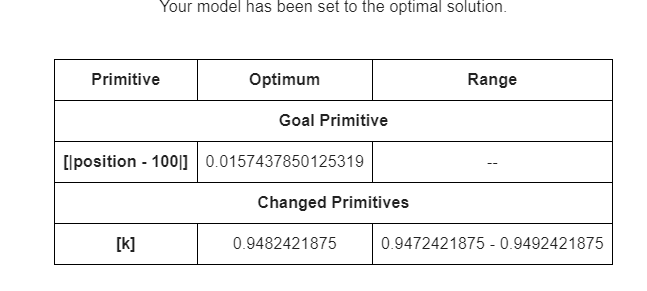
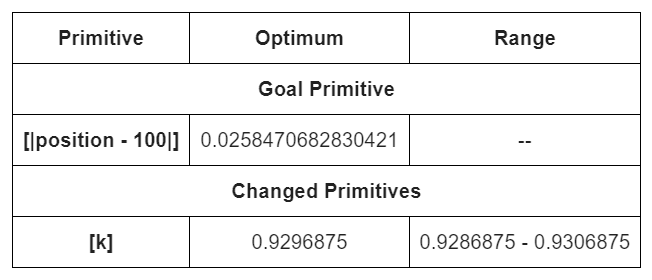
Latest build deployed.

diff --git a/lunr-pretext-search-index.js b/lunr-pretext-search-index.js
@@ -313,7 +313,7 @@ var ptx_lunr_docs = [
   "type": "Section",
   "number": "2.1",
   "title": "Modeling a Sprint with Insightmaker",
-  "body": " Modeling a Sprint with Insightmaker     Create a one-parameter ODE model of the velocity and position of a sprinter.    Compare the results of our model to real-world data from the 2008 Olympic 100m dash.    Estimate the value of the parameter in our ODE model that yields the best fit to the data using the built-in optimization abilities of Insightmaker.      In this section we will follow the example given in the first section and to show the full workflow of modeling a real-world scenario with Insightmaker. You are encouraged to build your own Insights as you work through this section. However, if you get stuck, links to three Insights are provided at the end of this section. Each one illustrates a different approach to parameter estimation.  We consider the problem of creating an ODE model for the velocity of a sprinter based on the following data from the 2008 Olympic 100m dash:  Usain Bolt's Position Data from the 2008 Olympic 100m Dash    Time (s)  0.165  1.85  2.87  3.78  4.65  5.50  6.32  7.14  7.96  8.79  9.69    Position (m)  0  10  20  30  40  50  60  70  80  90  100     Observe that the data we are presented with is position, while we are attemting to model velocity. This turns out to be a common situation as velocity is easier to model with a differential equation using Newton's Second Law ( has the derivative of velocity on the right-hand side), whereas position is easier to measure for data collection. However, since we can numerically integrate using Insightmaker we just need to create a model for velocity, then make the velocity stock equal to the inflow rate of the position stock via a link. This idea is illustrated with the following basic diagram, which we may refer to as an idiom since it describes a very common modeling situation (this is the velocity-to-position idiom).   The basic velocity to position diagram.    Creating this basic diagram for the modeling scenario, while it may seem intuitive, is the first step in the process of modeling using Insightmaker. We will now carry out the rest of the modeling process explicitly.   Creating the Model Diagram  Step 1: Identify Stocks and Flow Relationships   Identify all time-dependent variables (stocks) in the scenario and observe possible inflows, outflow, and flows between stocks. Decide if any stock influences the flow into or out of another and create links accordingly.    It is also good practice to establish units on all the stocks and flows of the model at this stage. In this case we will establish meters as the units of position, m\/s as the units of velocity (the stock and the flow into position) and m\/s as the units of both flows into velocity.   Establish Settings and Create Formulas  Step 2: Establish Flow Formulas and Parameters   Create formulas for the flow rates as well as any parameters (variables in Insightmaker) that the flow rates may depend on.    For the model of a sprint we will follow the Hill-Keller model as in . In this model we have one term for propulsive force, , which is assumed to be proportional to the mass of the sprinter. Thus, Here will be in units of m\/s and will be in units of kilograms. We will see that only one of them ( ) must be added as a variable in the model.   How realistic does it seem that the propulsive force generated by a sprinter is    proportional to their mass and    constant with respect to time?     There is also a resistive force, , that is assumed to be proportional to the velocity and the mass of the sprinter. This assumption is based on the idea that this resistive force accounts for air resistance and internal resistance of the runner's body. Thus, Here has units of s. We will add as a variable to our insight.  Using Newton's Second Law, we have Dividing everything by , we now have formulas for our flows for the velocity position stocks:  Flow Formulas for Sprint Model    Flow Formula into\/out of what    acceleration terms P into velocity    deceleration terms kv out of velocity    velocity v into position      Our Insight so far should look like the figure below with the flows describe above.   The basic Hill-Keller Insight.    Simulation settings will be as follows:  Simulation Start:   . This is the first time value in our data. It isn't zero because reaction time was nonzero.   Simulation End:   . This is the difference between and    Time Units:  Seconds   Simulation Time Step:   . This is a very small time step, but it is (sort of) necessary because of the initial point and wanting to be an exact time step. (We could use a larger time step by investigating factors of .)   Simulation Algorithm:  Euler's Method. Since the time step is very small, Euler's Method will be accurate enough.     At this point we have the Insight. Following , we will let and make have a slider to adjust it in small steps (of size ) between and (arrived at by running the model to see what works).   Using Data  Step 3: Adjust Parameters to Match the Data   After creating some quantifiable way of measuring how well the simulation matches the data, import the data as a converter and use an optimization procedure to make the simulation match the data as well as possible.    In order of increasing complexity we can   adjust sliders to make the data match at one or more points by inspection,    use the built-in optimization algorithm in Insightmaker to minimize the absolute value of the difference between one data point and the simulation, or    use the built-in optimization algorithm in Insightmaker to minimize the sum of squared errors between the collection of data points and the simulation.     We will now demonstrate each of these for our sprint model and see how much variation we get in our value of depending on the method.     Adjust Paramteters with Sliders: This is the most intuitive method. In this case, Bolt ran meters in seconds. Thus, we can run the simulation set to display time and position in the table display. Then, with sliders linked, we can adjust to make the position as close as we can to as possible when . The result is shown below:     The slider of for yields a position very close to meters.      Use the Optimizer (Version 1): As an alternative to using a slider, we can use the built in optimization algorithm to minimize when . First, we create a variable for (it will need a link from position). Then we proceed as follows:   Choose \"Optimization and Goal Seeking\" from the \"Tools\" (toolbox next to the \"Simulate\" button).    Choose as the \"primitive to adjust\".    Highlight \"minimize\" and \"final value\".    Choose as the primitive and accuracy of along with a guess range for .   Running the optimization, we find the is about what we found using the slider method. Notice we get a range of values and the value of the minimized variable. This is a numerical optimization algorithm, hence may not arrive at exact values even if you can find them by hand. The output is shown below.     The optimizer also finds .      Use the Optimizer (Version 2): Minimizing the difference between and the model's predictied position at does not account for any other time-position pairs. To obtain a more global fit to the data, we will use a converter with the entire dataset. Then we will minimize the sum of squared errors from the data to the model outputs.    To proceed, click to add a primitive and choose \"Add Converter\". Call your converter \"data\".     From here, insert the time and position values from with time as input source, meters as units, and linear interpolation. (Linear interpolation builds additional data points for comparison to the simulation by drawing straight lines through the data points.)  Now create a new variable called (for \"squared error\") that has as its formula and m as units.  Now open the optimization menu and choose to adjust to minimize the integral of . (The integral will be the sum of the squared errors.)  Running the optimization, we find that this method gives .     The optimizer now finds with the sum (integral) of the squared errors equal to .      Create a new stock whose flow rate is (dividing by will make this into a sum rather than an integral, which is what the optimizer does, really). Use this to compare the (sum of squared errors) for and to verify that the latter gives a better global fit to the data.     Sprint Insights  For comparison to your Insights, see below:    Insight only adjusting slider to match data.      Insight using the optimizer to match position when .      Insight using the optimizer to minimize the sum of the squared errors.       "
+  "body": " Modeling a Sprint with Insightmaker     Create a one-parameter ODE model of the velocity and position of a sprinter.    Compare the results of our model to real-world data from the 2008 Olympic 100m dash.    Estimate the value of the parameter in our ODE model that yields the best fit to the data using the built-in optimization abilities of Insightmaker.      In this section we will follow the example given in the first section and to show the full workflow of modeling a real-world scenario with Insightmaker. You are encouraged to build your own Insights as you work through this section. However, if you get stuck, links to three Insights are provided at the end of this section. Each one illustrates a different approach to parameter estimation.  We consider the problem of creating an ODE model for the velocity of a sprinter based on the following data from the 2008 Olympic 100m dash:  Usain Bolt's Position Data from the 2008 Olympic 100m Dash    Time (s)  0.165  1.85  2.87  3.78  4.65  5.50  6.32  7.14  7.96  8.79  9.69    Position (m)  0  10  20  30  40  50  60  70  80  90  100     Observe that the data we are presented with is position, while we are attemting to model velocity. This turns out to be a common situation as velocity is easier to model with a differential equation using Newton's Second Law ( has the derivative of velocity on the right-hand side), whereas position is easier to measure for data collection. However, since we can numerically integrate using Insightmaker we just need to create a model for velocity, then make the velocity stock equal to the inflow rate of the position stock via a link. This idea is illustrated with the following basic diagram, which we may refer to as an idiom since it describes a very common modeling situation (this is the velocity-to-position idiom).   The basic velocity to position diagram.    Creating this basic diagram for the modeling scenario, while it may seem intuitive, is the first step in the process of modeling using Insightmaker. We will now carry out the rest of the modeling process explicitly.   Creating the Model Diagram  Step 1: Identify Stocks and Flow Relationships   Identify all time-dependent variables (stocks) in the scenario and observe possible inflows, outflow, and flows between stocks. Decide if any stock influences the flow into or out of another and create links accordingly.    It is also good practice to establish units on all the stocks and flows of the model at this stage. In this case we will establish meters as the units of position, m\/s as the units of velocity (the stock and the flow into position) and m\/s as the units of both flows into velocity.   Establish Settings and Create Formulas  Step 2: Establish Flow Formulas and Parameters   Create formulas for the flow rates as well as any parameters (variables in Insightmaker) that the flow rates may depend on.    For the model of a sprint we will follow the Hill-Keller model as in . In this model we have one term for propulsive force, , which is assumed to be proportional to the mass of the sprinter. Thus, Here will be in units of m\/s and will be in units of kilograms. We will see that only one of them ( ) must be added as a variable in the model.   How realistic does it seem that the propulsive force generated by a sprinter is    proportional to their mass and    constant with respect to time?     There is also a resistive force, , that is assumed to be proportional to the velocity and the mass of the sprinter. This assumption is based on the idea that this resistive force accounts for air resistance and internal resistance of the runner's body. Thus, Here has units of s. We will add as a variable to our insight.  Using Newton's Second Law, we have Dividing everything by , we now have formulas for our flows for the velocity position stocks:  Flow Formulas for Sprint Model    Flow Formula into\/out of what    acceleration terms P into velocity    deceleration terms kv out of velocity    velocity v into position      Our Insight so far should look like the figure below with the flows describe above.   The basic Hill-Keller Insight.    Simulation settings will be as follows:  Simulation Start:   . This is the first time value in our data. It isn't zero because reaction time was nonzero.   Simulation End:   . This is the difference between and    Time Units:  Seconds   Simulation Time Step:   . This is a very small time step, but it is (sort of) necessary because of the initial point and wanting to be an exact time step. (We could use a larger time step by investigating factors of .)   Simulation Algorithm:  Euler's Method. Since the time step is very small, Euler's Method will be accurate enough.     At this point we have the Insight. Following , we will let and make have a slider to adjust it in small steps (of size ) between and (arrived at by running the model to see what works).   Using Data  Step 3: Adjust Parameters to Match the Data   After creating some quantifiable way of measuring how well the simulation matches the data, import the data as a converter and use an optimization procedure to make the simulation match the data as well as possible.    In order of increasing complexity we can   adjust sliders to make the data match at one or more points by inspection,    use the built-in optimization algorithm in Insightmaker to minimize the absolute value of the difference between one data point and the simulation, or    use the built-in optimization algorithm in Insightmaker to minimize the sum of squared errors between the collection of data points and the simulation.     We will now demonstrate each of these for our sprint model and see how much variation we get in our value of depending on the method.     Adjust Paramteters with Sliders: This is the most intuitive method. In this case, Bolt ran meters in seconds. Thus, we can run the simulation set to display time and position in the table display. Then, with sliders linked, we can adjust to make the position as close as we can to as possible when . The result is shown below:     The slider of for yields a position very close to meters.      Use the Optimizer (Version 1): As an alternative to using a slider, we can use the built in optimization algorithm to minimize when . First, we create a variable for (it will need a link from position). Then we proceed as follows:   Choose \"Optimization and Goal Seeking\" from the \"Tools\" (toolbox next to the \"Simulate\" button).    Choose as the \"primitive to adjust\".    Highlight \"minimize\" and \"final value\".    Choose as the primitive and accuracy of along with a guess range for .   Running the optimization, we find the is about what we found using the slider method. Notice we get a range of values and the value of the minimized variable. This is a numerical optimization algorithm, hence may not arrive at exact values even if you can find them by hand. The output is shown below.     The optimizer finds .      Use the Optimizer (Version 2): Minimizing the difference between and the model's predictied position at does not account for any other time-position pairs. To obtain a more global fit to the data, we will use a converter with the entire dataset. Then we will minimize the sum of squared errors from the data to the model outputs.    To proceed, click to add a primitive and choose \"Add Converter\". Call your converter \"data\".     From here, insert the time and position values from with time as input source, meters as units, and linear interpolation. (Linear interpolation builds additional data points for comparison to the simulation by drawing straight lines through the data points.)  Now create a new variable called (for \"squared error\") that has as its formula and m as units.  Now open the optimization menu and choose to adjust to minimize the integral of . (The integral will be the sum of the squared errors.)  Running the optimization, we find that this method gives .     The optimizer now finds with the sum (integral) of the squared errors equal to .      Create a new stock whose flow rate is (dividing by will make this into a sum rather than an integral, which is what the optimizer does, really). Use this to compare the (sum of squared errors) for and to verify that the latter gives a better global fit to the data.     Sprint Insights  For comparison to your Insights, see below:    Insight only adjusting slider to match data.      Insight using the optimizer to match position when .      Insight using the optimizer to minimize the sum of the squared errors.       "
 },
 {
   "id": "SprintModel-2",
@@ -439,7 +439,7 @@ var ptx_lunr_docs = [
   "type": "Figure",
   "number": "2.1.10",
   "title": "",
-  "body": "   The optimizer also finds .  "
+  "body": "   The optimizer finds .  "
 },
 {
   "id": "SprintModel-6-5-3-1",

diff --git a/SprintModel.html b/SprintModel.html
@@ -384,16 +384,16 @@ mv' = mF-kmv.
 <dl class="description-list">
 <dt id="SprintModel-5-9-1-1">Simulation Start:</dt>
 <dd><div class="para" id="SprintModel-5-9-1-1-2">
-<span class="process-math">\(0.0165\text{.}\)</span> This is the first time value in our data. It isn’t zero because reaction time was nonzero.</div></dd>
+<span class="process-math">\(0.165\text{.}\)</span> This is the first time value in our data. It isn’t zero because reaction time was nonzero.</div></dd>
 <dt id="SprintModel-5-9-1-2">Simulation End:</dt>
 <dd><div class="para" id="SprintModel-5-9-1-2-2">
-<span class="process-math">\(9.6735\text{.}\)</span> This is the difference between <span class="process-math">\(9.69\)</span> and <span class="process-math">\(0.0165\)</span>
+<span class="process-math">\(9.525\text{.}\)</span> This is the difference between <span class="process-math">\(9.69\)</span> and <span class="process-math">\(0.165\)</span>
 </div></dd>
 <dt id="SprintModel-5-9-1-3">Time Units:</dt>
 <dd><div class="para" id="SprintModel-5-9-1-3-2">Seconds</div></dd>
 <dt id="SprintModel-5-9-1-4">Simulation Time Step:</dt>
 <dd><div class="para" id="SprintModel-5-9-1-4-2">
-<span class="process-math">\(0.0005\text{.}\)</span> This is a very small time step, but it is (sort of) necessary because of the initial point and wanting <span class="process-math">\(9.69\)</span> to be an exact time step. (We could use a larger time step by investigating factors of <span class="process-math">\(96735\text{.}\)</span>)</div></dd>
+<span class="process-math">\(0.005\text{.}\)</span> This is a very small time step, but it is (sort of) necessary because of the initial point and wanting <span class="process-math">\(9.69\)</span> to be an exact time step. (We could use a larger time step by investigating factors of <span class="process-math">\(9525\text{.}\)</span>)</div></dd>
 <dt id="SprintModel-5-9-1-5">Simulation Algorithm:</dt>
 <dd><div class="para" id="SprintModel-5-9-1-5-2">Euler’s Method. Since the time step is very small, Euler’s Method will be accurate enough.</div></dd>
 </dl>
@@ -418,7 +418,7 @@ mv' = mF-kmv.
 <div class="para" id="SprintModel-6-5-1-1">
 <dfn class="terminology">Adjust Paramteters with Sliders:</dfn> This is the most intuitive method. In this case, Bolt ran <span class="process-math">\(100\)</span> meters in <span class="process-math">\(9.69\)</span> seconds. Thus, we can run the simulation set to display time and position in the table display. Then, with sliders linked, we can adjust <span class="process-math">\(k\)</span> to make the position as close as we can to <span class="process-math">\(100\)</span> as possible when <span class="process-math">\(t=9.69\text{.}\)</span> The result is shown below:</div>
 <figure class="figure figure-like" id="sprint_slider_pic"><div class="image-box" style="width: 100%; margin-left: 0%; margin-right: 0%;"><img src="external/images/SprintSlider.png" class="contained"></div>
-<figcaption><span class="type">Figure</span><span class="space"> </span><span class="codenumber">2.1.9<span class="period">.</span></span><span class="space"> </span>The slider of <span class="process-math">\(0.948\)</span> for <span class="process-math">\(k\)</span> yields a position very close to <span class="process-math">\(100\)</span> meters.</figcaption></figure>
+<figcaption><span class="type">Figure</span><span class="space"> </span><span class="codenumber">2.1.9<span class="period">.</span></span><span class="space"> </span>The slider of <span class="process-math">\(0.929\)</span> for <span class="process-math">\(k\)</span> yields a position very close to <span class="process-math">\(100\)</span> meters.</figcaption></figure>
 </li>
 <li id="SprintModel-6-5-2">
 <div class="para logical" id="SprintModel-6-5-2-1">
@@ -434,7 +434,7 @@ mv' = mF-kmv.
 <div class="para">Running the optimization, we find the <span class="process-math">\(k\)</span> is about what we found using the slider method. Notice we get a range of values and the value of the minimized variable. This is a numerical optimization algorithm, hence may not arrive at exact values even if you can find them by hand. The output is shown below.</div>
 </div>
 <figure class="figure figure-like" id="sprint_end_opt_pic"><div class="image-box" style="width: 100%; margin-left: 0%; margin-right: 0%;"><img src="external/images/SprintEndValueOpt.png" class="contained"></div>
-<figcaption><span class="type">Figure</span><span class="space"> </span><span class="codenumber">2.1.10<span class="period">.</span></span><span class="space"> </span>The optimizer also finds <span class="process-math">\(k\approx 0.948\text{.}\)</span></figcaption></figure>
+<figcaption><span class="type">Figure</span><span class="space"> </span><span class="codenumber">2.1.10<span class="period">.</span></span><span class="space"> </span>The optimizer finds <span class="process-math">\(k\approx 0.9296875\text{.}\)</span></figcaption></figure>
 </li>
 <li id="SprintModel-6-5-3">
 <div class="para" id="SprintModel-6-5-3-1">
@@ -450,12 +450,12 @@ mv' = mF-kmv.
 <div class="para" id="SprintModel-6-5-3-6">Running the optimization, we find that this method gives <span class="process-math">\(k\approx 0.956\text{.}\)</span>
 </div>
 <figure class="figure figure-like" id="sprint_sse_opt_pic"><div class="image-box" style="width: 100%; margin-left: 0%; margin-right: 0%;"><img src="external/images/SprintSSEOpt.png" class="contained"></div>
-<figcaption><span class="type">Figure</span><span class="space"> </span><span class="codenumber">2.1.11<span class="period">.</span></span><span class="space"> </span>The optimizer now finds <span class="process-math">\(k\approx 0.956\)</span> with the sum (integral) of the squared errors equal to <span class="process-math">\(23202.05\text{.}\)</span></figcaption></figure>
+<figcaption><span class="type">Figure</span><span class="space"> </span><span class="codenumber">2.1.11<span class="period">.</span></span><span class="space"> </span>The optimizer now finds <span class="process-math">\(k\approx 0.9277\)</span> with the sum (integral) of the squared errors equal to <span class="process-math">\(1382.47.05\text{.}\)</span></figcaption></figure>
 </li>
 </ol>
 <details id="SprintModel-6-6" class="exercise exercise-like born-hidden-knowl"><summary class="knowl__link"><h4 class="heading">
 <span class="type">Checkpoint</span><span class="space"> </span><span class="codenumber">2.1.12</span><span class="period">.</span>
-</h4></summary><article class="exercise exercise-like knowl__content"><div class="para" id="SprintModel-6-6-1-1">Create a new stock whose flow rate is <span class="process-math">\(SE/\text{TimeStep()}\)</span> (dividing by <span class="process-math">\(\text{TimeStep()}\)</span> will make this into a <em class="emphasis">sum</em> rather than an integral, which is what the optimizer does, really). Use this to compare the <span class="process-math">\(SSE\)</span> (sum of squared errors) for <span class="process-math">\(k=0.948\)</span> and <span class="process-math">\(k=0.956\)</span> to verify that the latter gives a better global fit to the data.</div></article></details></section><section class="subsection" id="sprint_insights"><h3 class="heading hide-type">
+</h4></summary><article class="exercise exercise-like knowl__content"><div class="para" id="SprintModel-6-6-1-1">Create a new stock whose flow rate is <span class="process-math">\(SE/\text{TimeStep()}\)</span> (dividing by <span class="process-math">\(\text{TimeStep()}\)</span> will make this into a <em class="emphasis">sum</em> rather than an integral, which is what the optimizer does, really). Use this to compare the <span class="process-math">\(SSE\)</span> (sum of squared errors) for <span class="process-math">\(k=0.929\)</span> and <span class="process-math">\(k=0.9277\)</span> to verify that the latter gives a better global fit to the data.</div></article></details></section><section class="subsection" id="sprint_insights"><h3 class="heading hide-type">
 <span class="type">Subsection</span><span class="space"> </span><span class="codenumber">2.1.4</span><span class="space"> </span><span class="title">Sprint Insights</span>
 </h3>
 <div class="para logical" id="sprint_insights-2">

diff --git a/frontmatter.html b/frontmatter.html
@@ -278,7 +278,7 @@ true);
 <div class="author-name">Erich McAlister</div>
 <div class="author-info">Mathematics<br>Fort Lewis College</div>
 </div>
-<div class="date">August 27, 2024</div>
+<div class="date">August 28, 2024</div>
 <nav class="summary-links"><ul>
 <li><a href="frontmatter-2.html" class="internal"><span class="title">Colophon</span></a></li>
 <li><a href="frontmatter-3.html" class="internal"><span class="title">Acknowledgements</span></a></li>

diff --git a/index.html b/index.html
@@ -2,7 +2,7 @@
 <html>
 <!--********************************************-->
 <!--*       Generated from PreTeXt source      *-->
-<!--*       on 2024-08-27T16:08:29-06:00       *-->
+<!--*       on 2024-08-28T09:53:43-06:00       *-->
 <!--*   A recent stable commit (2022-07-01):   *-->
 <!--* 6c761d3dba23af92cba35001c852aac04ae99a5f *-->
 <!--*                                          *-->
